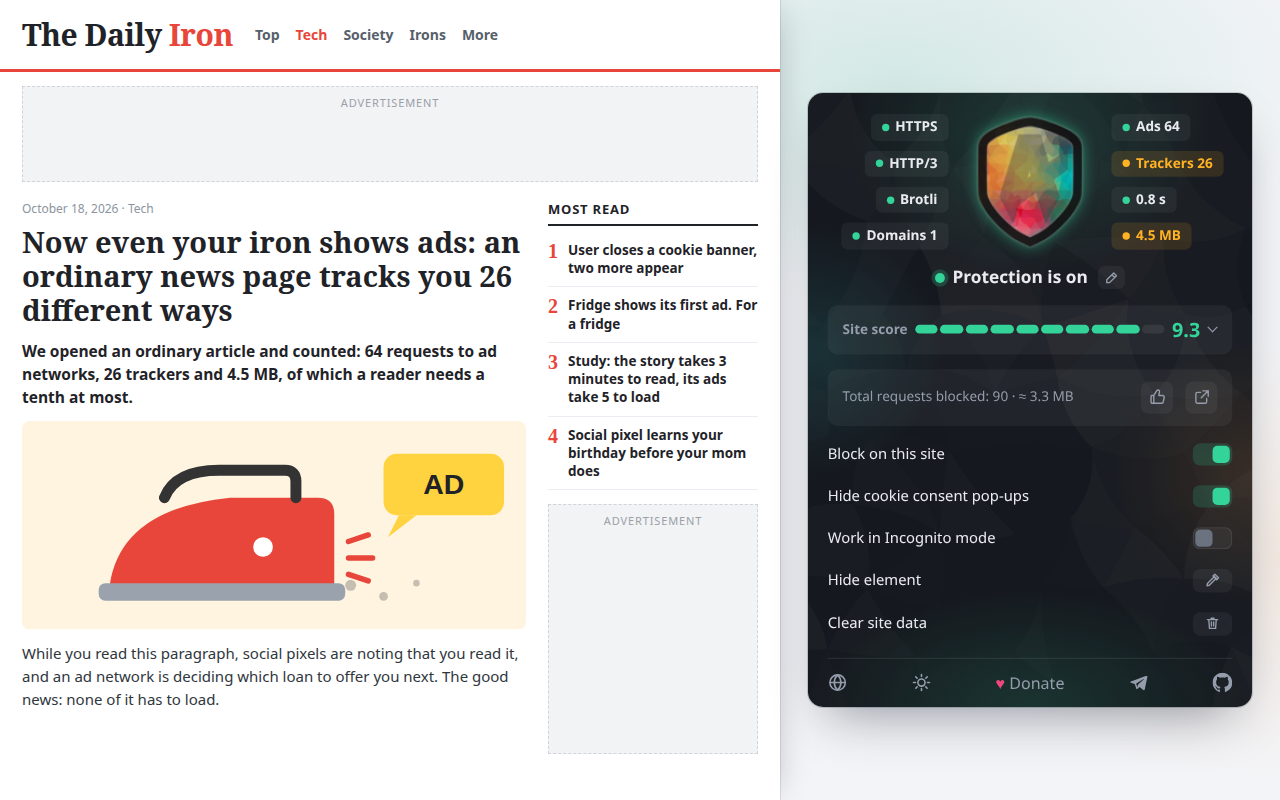
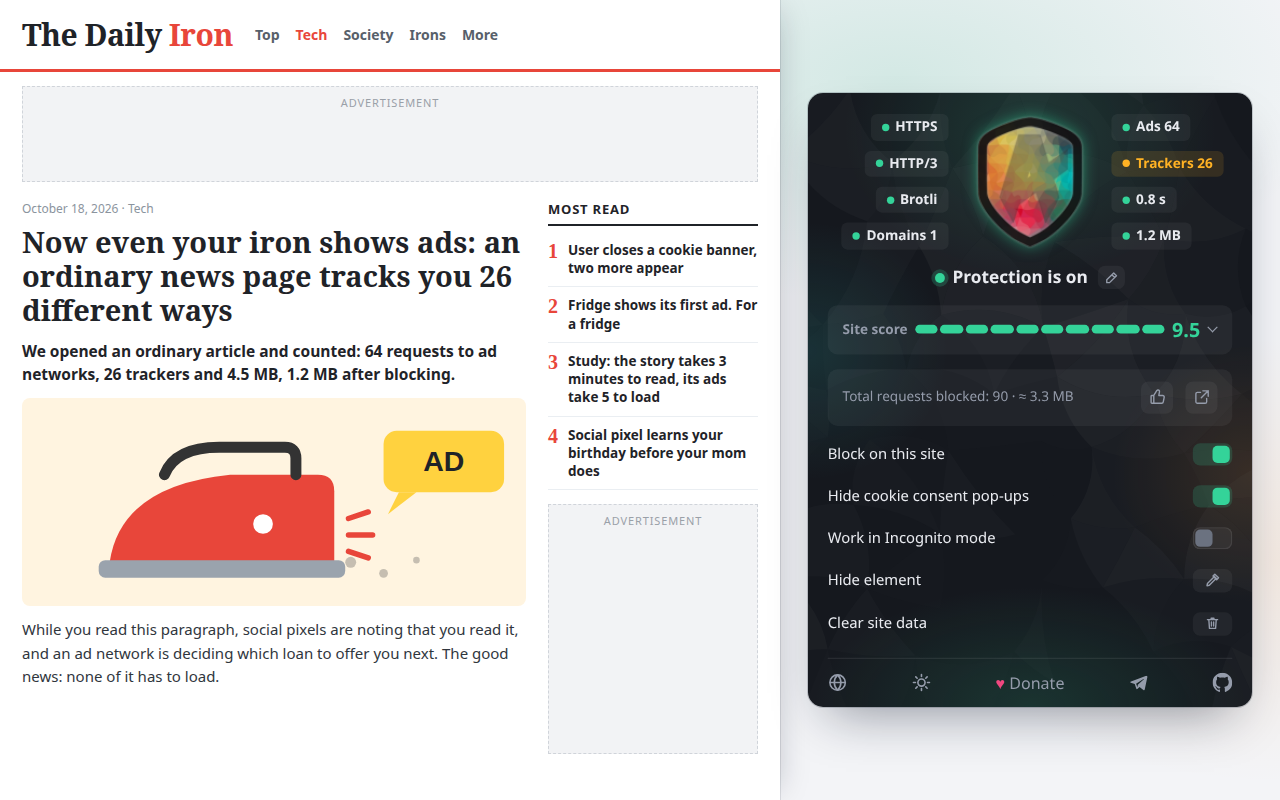
Скриншот магазина «Утюг»: вес после блокировки 1,2 МБ в окне и статье, сербский сайт на кириллице

Changed region(s): [[0.0, 0.4375, 0.4375, 0.9062], [0.875, 0.2812, 0.9375, 0.3125], [0.875, 0.4062, 0.9062, 0.4375]]

diff --git a/docs/store/mockup/sr.html b/docs/store/mockup/sr.html
@@ -21,9 +21,9 @@ aside li{display:flex;gap:10px;font-size:13.5px;line-height:1.35;font-weight:600
 aside li span{color:#e8463a;font-family:Georgia,serif;font-size:20px;line-height:1}
 .side{height:250px;margin-top:14px}
 </style></head><body>
-<header><div class="logo">Dnevna <b>Pegla</b></div><nav><a>Najvažnije</a><a class=on>Tehnologija</a><a>Društvo</a><a>Pegle</a><a>Još</a></nav></header>
-<div class="ad top">Oglas</div>
-<main><article><div class="date">18. oktobar 2026. · Tehnologija</div><h1>Reklame sada izlaze i iz pegle: obična stranica sa vestima prati vas na 26 načina</h1><div class="lead">Otvorili smo običan članak i izbrojali: 64 zahteva ka reklamnim mrežama, 26 trekera i 4,5 MB, od čega čitaocu treba najviše desetina.</div>
+<header><div class="logo">Дневна <b>Пегла</b></div><nav><a>Најважније</a><a class=on>Технологија</a><a>Друштво</a><a>Пегле</a><a>Још</a></nav></header>
+<div class="ad top">Оглас</div>
+<main><article><div class="date">18. октобар 2026. · Технологија</div><h1>Рекламе сада излазе и из пегле: обична страница са вестима прати вас на 26 начина</h1><div class="lead">Отворили смо обичан чланак и избројали: 64 захтева ка рекламним мрежама, 26 трекера и 4,5 MB, после блокирања&nbsp;—&nbsp;1,2&nbsp;MB.</div>
 <div class="pic"><svg viewBox="0 0 460 190" xmlns="http://www.w3.org/2000/svg">
 <rect width="460" height="190" fill="#fff4e0"/>
 <g transform="translate(70,40)">
@@ -36,9 +36,9 @@ aside li span{color:#e8463a;font-family:Georgia,serif;font-size:20px;line-height
 <g transform="translate(330,30)">
  <rect width="110" height="56" rx="12" fill="#ffd23f"/>
  <path d="M14 56 l-10 20 l26 -20 Z" fill="#ffd23f"/>
- <text x="55" y="37" text-anchor="middle" font-family="Arial Black, Arial" font-weight="900" font-size="26" fill="#1f2328">OGLAS</text>
+ <text x="55" y="37" text-anchor="middle" font-family="Arial Black, Arial" font-weight="900" font-size="26" fill="#1f2328">ОГЛАС</text>
 </g>
 <g fill="#1f2328" opacity=".25"><circle cx="300" cy="150" r="5"/><circle cx="330" cy="160" r="4"/><circle cx="360" cy="148" r="3"/></g>
-</svg></div><p>Dok čitate ovaj pasus, pikseli društvenih mreža beleže da ga čitate, a reklamna mreža bira koji kredit da vam ponudi. Dobra vest: ništa od toga ne mora da se učita.</p></article>
-<aside><h3>Najčitanije</h3><ol><li><span>1</span>Korisnik zatvorio baner o kolačićima, otvorila se još dva</li><li><span>2</span>Frižider prvi put prikazao reklamu. Za frižider</li><li><span>3</span>Studija: vest se čita 3 minuta, reklame se učitavaju 5</li><li><span>4</span>Piksel saznao za vaš rođendan pre mame</li></ol><div class="ad side">Oglas</div></aside></main>
+</svg></div><p>Док читате овај пасус, пиксели друштвених мрежа бележе да га читате, а рекламна мрежа бира који кредит да вам понуди. Добра вест: ништа од тога не мора да се учита.</p></article>
+<aside><h3>Најчитаније</h3><ol><li><span>1</span>Корисник затворио банер о колачићима, отворила се још два</li><li><span>2</span>Фрижидер први пут приказао рекламу. За фрижидер</li><li><span>3</span>Студија: вест се чита 3 минута, рекламе се учитавају 5</li><li><span>4</span>Пиксел сазнао за ваш рођендан пре маме</li></ol><div class="ad side">Оглас</div></aside></main>
 </body></html>

diff --git a/docs/store/mockup/ru.html b/docs/store/mockup/ru.html
@@ -23,7 +23,7 @@ aside li span{color:#e8463a;font-family:Georgia,serif;font-size:20px;line-height
 </style></head><body>
 <header><div class="logo">Утюг <b>новости</b></div><nav><a>Главное</a><a class=on>Технологии</a><a>Общество</a><a>Утюги</a><a>Ещё</a></nav></header>
 <div class="ad top">Реклама</div>
-<main><article><div class="date">18 октября 2026 · Технологии</div><h1>Реклама теперь из каждого утюга: обычная страница новостей следит за вами 26 способами</h1><div class="lead">Мы открыли обычную статью и посчитали: 64 запроса к рекламным сетям, 26 трекеров и 4,5 МБ, из которых читателю нужна от силы десятая часть.</div>
+<main><article><div class="date">18 октября 2026 · Технологии</div><h1>Реклама теперь из каждого утюга: обычная страница новостей следит за вами 26 способами</h1><div class="lead">Мы открыли обычную статью и посчитали: 64 запроса к рекламным сетям, 26 трекеров и 4,5 МБ, после блокировки&nbsp;—&nbsp;1,2&nbsp;МБ.</div>
 <div class="pic"><svg viewBox="0 0 460 190" xmlns="http://www.w3.org/2000/svg">
 <rect width="460" height="190" fill="#fff4e0"/>
 <g transform="translate(70,40)">

diff --git a/docs/store/mockup/en.html b/docs/store/mockup/en.html
@@ -23,7 +23,7 @@ aside li span{color:#e8463a;font-family:Georgia,serif;font-size:20px;line-height
 </style></head><body>
 <header><div class="logo">The Daily <b>Iron</b></div><nav><a>Top</a><a class=on>Tech</a><a>Society</a><a>Irons</a><a>More</a></nav></header>
 <div class="ad top">Advertisement</div>
-<main><article><div class="date">October 18, 2026 · Tech</div><h1>Now even your iron shows ads: an ordinary news page tracks you 26 different ways</h1><div class="lead">We opened an ordinary article and counted: 64 requests to ad networks, 26 trackers and 4.5 MB, of which a reader needs a tenth at most.</div>
+<main><article><div class="date">October 18, 2026 · Tech</div><h1>Now even your iron shows ads: an ordinary news page tracks you 26 different ways</h1><div class="lead">We opened an ordinary article and counted: 64 requests to ad networks, 26 trackers and 4.5&nbsp;MB, 1.2&nbsp;MB after blocking.</div>
 <div class="pic"><svg viewBox="0 0 460 190" xmlns="http://www.w3.org/2000/svg">
 <rect width="460" height="190" fill="#fff4e0"/>
 <g transform="translate(70,40)">

diff --git a/docs/store/README.md b/docs/store/README.md
@@ -34,8 +34,9 @@ store/
 Скриншот 1 — заголовок, тезисы и настоящий отчёт «Поделиться» о ya.ru.
 Скриншот 2: слева выдуманный новостной сайт «Утюг новости» / «The Daily Iron» / «Dnevna Pegla» со статьёй
 о рекламе «из каждого утюга» и слежке (`mockup/<язык>.html`), справа окно расширения в тёмной теме.
-Окно настоящее, на демонстрационных данных: 64 запроса к рекламе, 26 трекеров, 4,5 МБ — те же цифры, что
-в статье; React, Angie, Yandex, DDoS-Guard; вместо домена — «этом сайте». На месте рекламы на сайте — пустые плашки.
+Окно настоящее, на демонстрационных данных: 64 запроса к рекламе, 26 трекеров, вес 1,2 МБ после блокировки —
+те же цифры, что в статье («4,5 МБ, после блокировки — 1,2 МБ»); React, Angie, Yandex, DDoS-Guard; вместо домена —
+«этом сайте». Сербский сайт — на кириллице, как окно. На месте рекламы на сайте — пустые плашки.
 
 Магазин показывает скриншоты своего языка, а языкам без своих — английские.
 
@@ -97,7 +98,7 @@ node /srv/arhone/ablock/.agents/workers/designers/diana/files/store-shot-2/shot.
 Скрипт копирует расширение в `/tmp` (права расширенного режима — в manifest копии, демо-данные — в `popup.js` копии),
 открывает `mockup/<язык>.html` как `http://iron.example` (адрес направлен на 127.0.0.1, остальная сеть закрыта),
 снимает окно в тёмной теме на языке кадра и сайт из файла, собирает кадр. Проверяет: окно не выше 600 px без
-прокрутки, тексты не обрезаны, цифры окна есть в статье, нигде нет Meta, PNG 1280×800 без альфа-канала.
+прокрутки, тексты не обрезаны, цифры окна и вес до блокировки есть в статье, нигде нет Meta, PNG 1280×800 без альфа-канала.
 Если цифры в статье меняются — их нужно поменять и в стенде. Подробности — `README.md` рядом со скриптом.
 Старые `img/<язык>/1.png` сняты прежним способом (настоящая новостная страница) и содержат Meta.
 
